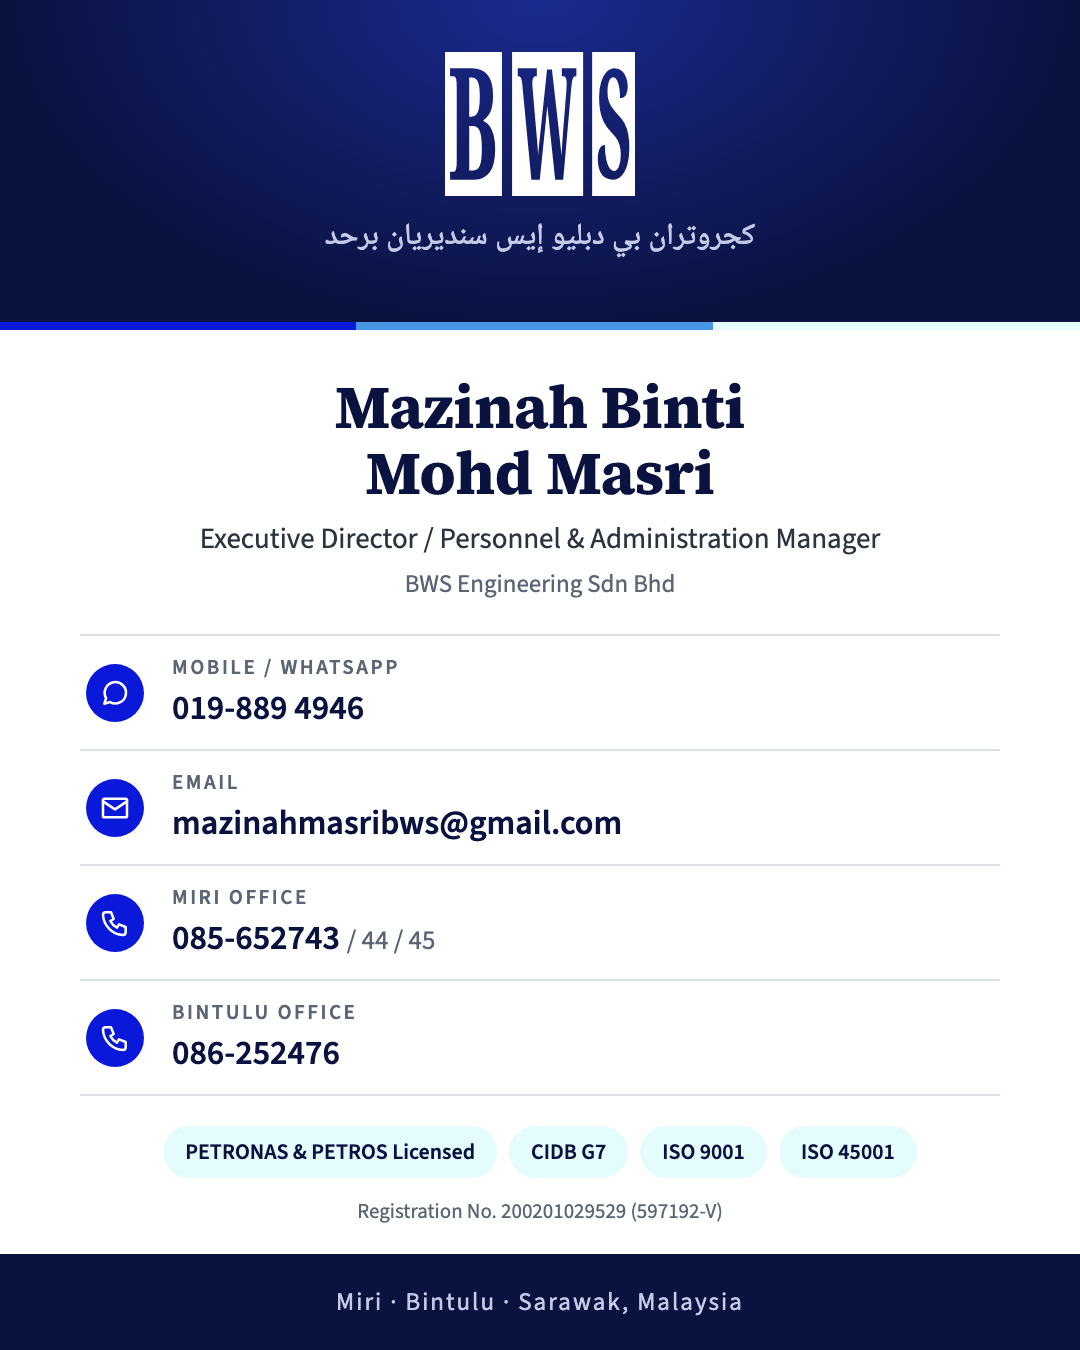
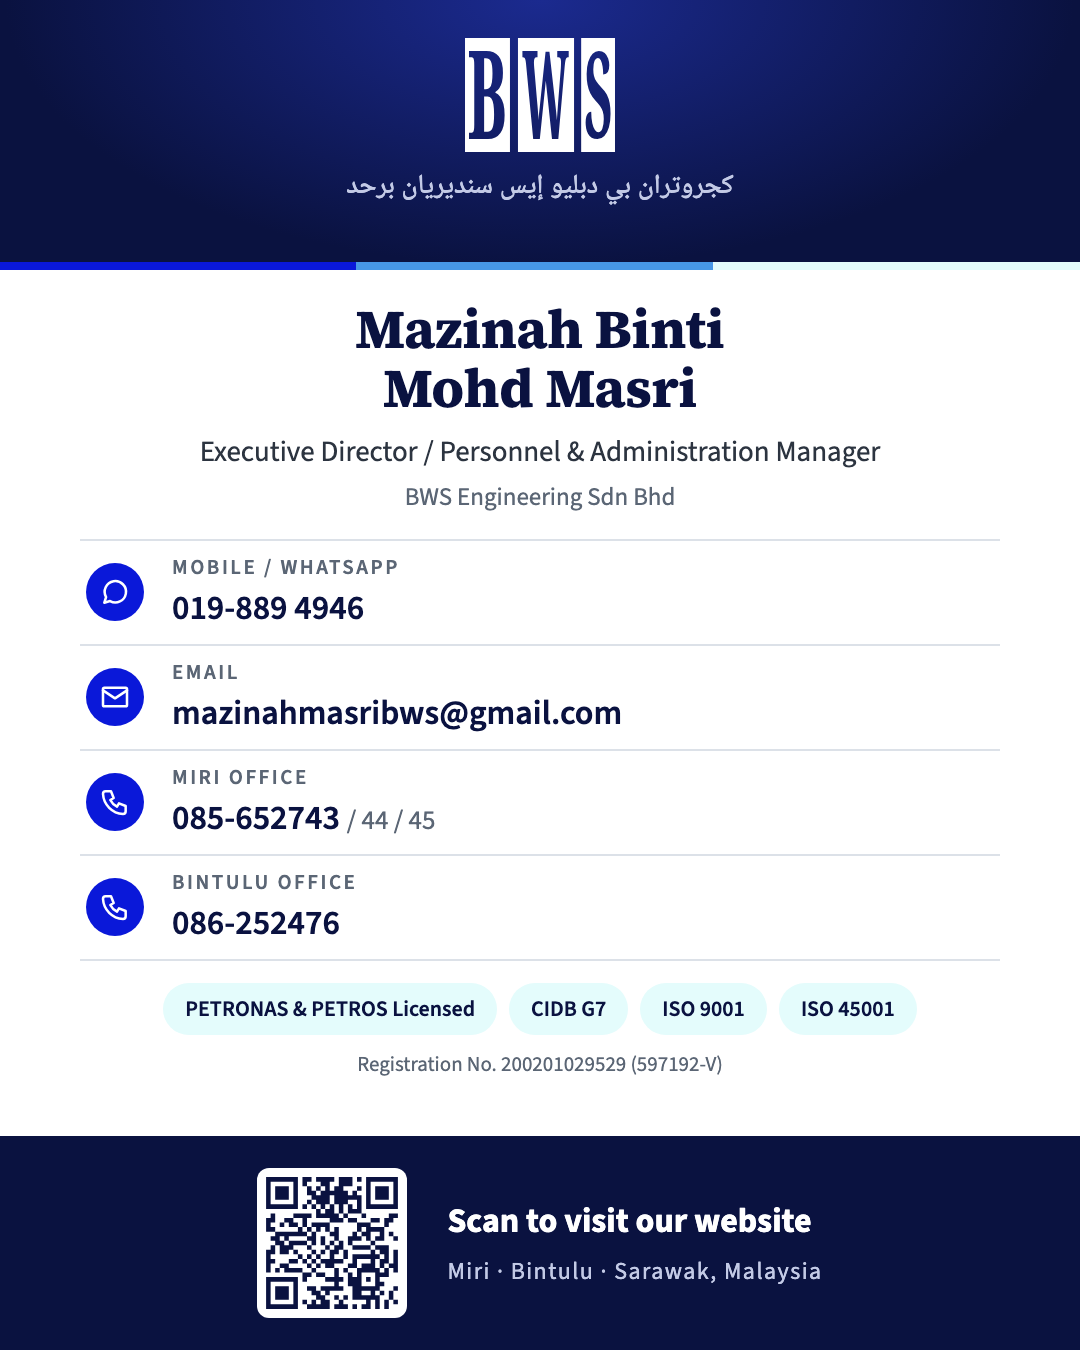
Add website QR to the card image
The QR points at bwsengsdnbhd.vercel.app, which keeps working after the
domain cutover.

Changed region(s): [[0.0, 0.0311, 1.0, 0.9956]]

diff --git a/tools/card-image/mazinah.html b/tools/card-image/mazinah.html
@@ -13,28 +13,31 @@
 html, body { width: 1080px; height: 1350px; }
 body { font-family: "Source Sans 3", system-ui, sans-serif; background: var(--ink); color: #fff; display: flex; flex-direction: column; overflow: hidden; }
 
-.top { flex: none; height: 330px; text-align: center; padding-top: 52px; background: radial-gradient(ellipse at 50% 0%, #1b2a8f 0%, var(--ink) 70%); position: relative; }
-.top img { width: 190px; height: auto; display: block; margin: 0 auto 16px; }
-.jawi { font-family: "Noto Naskh Arabic", serif; font-weight: 500; font-size: 30px; color: var(--muted); direction: rtl; }
+.top { flex: none; height: 270px; text-align: center; padding-top: 38px; background: radial-gradient(ellipse at 50% 0%, #1b2a8f 0%, var(--ink) 70%); position: relative; }
+.top img { width: 150px; height: auto; display: block; margin: 0 auto 12px; }
+.jawi { font-family: "Noto Naskh Arabic", serif; font-weight: 500; font-size: 27px; color: var(--muted); direction: rtl; }
 .bar { position: absolute; left: 0; right: 0; bottom: 0; height: 8px; background: linear-gradient(90deg, var(--blue) 0 33%, var(--sky) 33% 66%, var(--cyan) 66%); }
 
-.panel { flex: 1; background: #fff; color: var(--steel-800); padding: 44px 80px 0; display: flex; flex-direction: column; }
-h1 { font-family: "Source Serif 4", Georgia, serif; font-weight: 700; font-size: 60px; line-height: 1.1; color: var(--ink); text-align: center; }
+.panel { flex: 1; background: #fff; color: var(--steel-800); padding: 30px 80px 0; display: flex; flex-direction: column; }
+h1 { font-family: "Source Serif 4", Georgia, serif; font-weight: 700; font-size: 54px; line-height: 1.1; color: var(--ink); text-align: center; }
 .role { text-align: center; font-size: 29px; margin-top: 12px; color: var(--steel-800); }
 .co { text-align: center; font-size: 25px; margin-top: 6px; color: var(--steel-600); }
 
-.rows { margin-top: 32px; border-top: 2px solid #DCE1E8; }
-.row { display: flex; align-items: center; gap: 28px; padding: 16px 6px; border-bottom: 2px solid #DCE1E8; }
+.rows { margin-top: 24px; border-top: 2px solid #DCE1E8; }
+.row { display: flex; align-items: center; gap: 28px; padding: 11px 6px; border-bottom: 2px solid #DCE1E8; }
 .ico { flex: none; width: 58px; height: 58px; border-radius: 50%; background: var(--blue); display: grid; place-items: center; }
 .ico svg { width: 32px; height: 32px; stroke: #fff; fill: none; stroke-width: 1.9; stroke-linecap: round; stroke-linejoin: round; }
 .lbl { font-size: 21px; letter-spacing: .12em; text-transform: uppercase; color: var(--steel-600); font-weight: 600; }
 .val { font-size: 34px; font-weight: 600; color: var(--ink); margin-top: 2px; }
 .val small { font-size: 27px; font-weight: 400; color: var(--steel-600); }
 
-.chips { display: flex; flex-wrap: wrap; justify-content: center; gap: 12px; margin-top: 30px; }
+.chips { display: flex; flex-wrap: wrap; justify-content: center; gap: 12px; margin-top: 22px; }
 .chip { background: var(--cyan); color: var(--ink); border-radius: 999px; padding: 10px 22px; font-size: 22px; font-weight: 600; }
-.reg { text-align: center; font-size: 21px; color: var(--steel-600); margin-top: 18px; }
-.foot { flex: none; height: 96px; background: var(--ink); color: var(--muted); display: flex; align-items: center; justify-content: center; font-size: 25px; letter-spacing: .08em; }
+.reg { text-align: center; font-size: 21px; color: var(--steel-600); margin-top: 14px; }
+.foot { flex: none; height: 214px; background: var(--ink); color: var(--muted); display: flex; align-items: center; justify-content: center; gap: 40px; }
+.foot img { width: 150px; height: 150px; border-radius: 12px; display: block; }
+.foot strong { display: block; color: #fff; font-size: 34px; margin-bottom: 8px; }
+.foot span { font-size: 24px; letter-spacing: .06em; }
 </style>
 </head>
 <body>
@@ -75,6 +78,9 @@ h1 { font-family: "Source Serif 4", Georgia, serif; font-weight: 700; font-size:
     </div>
     <p class="reg">Registration No. 200201029529 (597192-V)</p>
   </div>
-  <div class="foot">Miri · Bintulu · Sarawak, Malaysia</div>
+  <div class="foot">
+    <img src="website-qr.svg" alt="QR code for the BWS website">
+    <div><strong>Scan to visit our website</strong><span>Miri · Bintulu · Sarawak, Malaysia</span></div>
+  </div>
 </body>
 </html>
